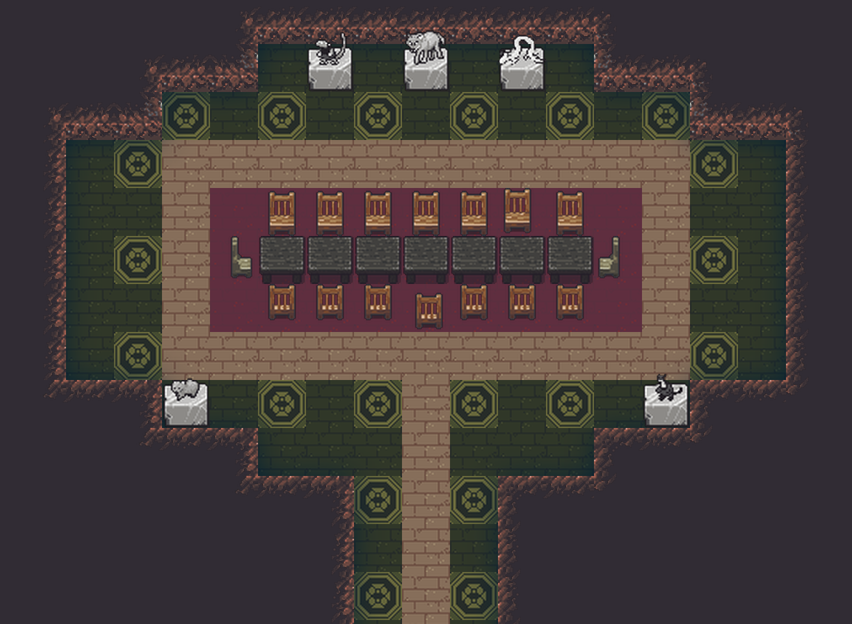
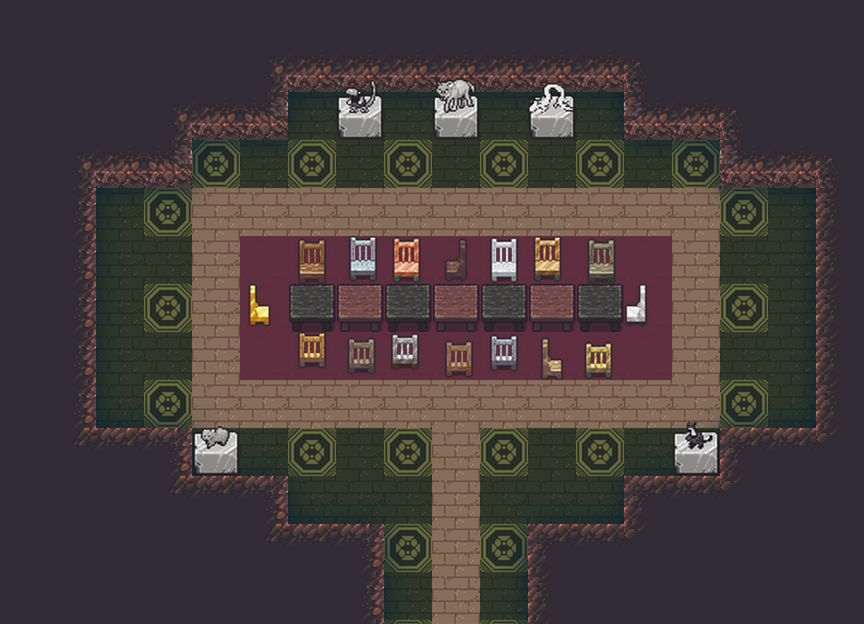
1.0: lay the repo out as the mod folder, drop package.sh, test on DFHack 53.17-r1
- info.txt, preview.png and scripts_modinstalled/ at the top level; art, test and docs
  are export-ignored so a git archive is exactly the Workshop upload
- renumber the first public release to 1.0 and remove the notes on the old plugin version
- hand install is now the mod folder in the game's mods folder
- README and Steam description: accuracy and wording fixes from review, corrected
  'overlay list' command, tested on Dwarf Fortress 53.17 with DFHack 53.17-r1
- new room, sheet and preview pictures

diff --git a/art/make_template.py b/art/make_template.py
@@ -5,7 +5,7 @@ reads: DFHack's Lua cannot read the pixels of a PNG.
 The PNG is 4 rows (wood, stone, metal, glass) of 4 facings (N, E, S, W), 32x32 each.  The Lua
 file returns 16 strings, row by row; each is one tile as 1024 pixels of 8 hex digits, RRGGBBAA.
 
-Usage: make_template.py            write scripts/internal/improved-chairs/template.lua
+Usage: make_template.py            write scripts_modinstalled/internal/improved-chairs/template.lua
        make_template.py --check    fail if that file does not match the PNG
 """
 import pathlib
@@ -15,7 +15,7 @@ from PIL import Image
 
 HERE = pathlib.Path(__file__).resolve().parent
 SRC = HERE / "sets" / "slat_template.png"
-OUT = HERE.parent / "scripts" / "internal" / "improved-chairs" / "template.lua"
+OUT = HERE.parent / "scripts_modinstalled" / "internal" / "improved-chairs" / "template.lua"
 TILE, ROWS, FACINGS = 32, 4, 4
 
 

diff --git a/README.md b/README.md
@@ -6,25 +6,26 @@ purely cosmetic: the game has no notion of chair facing, so nothing about the ch
 changes; the save only gains a small DFHack note of each turned or moved chair. Remove the mod
 and every chair looks exactly as it did before.
 
-![A dining room with chairs facing all four ways](docs/room.png)
+![A dining hall with chairs of many materials, turned and moved](docs/room.png)
 
 The chair is coloured from the material it is made of:
 
-![The chair in every material, front and side view](docs/materials.png)
+![The chair in some 250 materials, front and side view](docs/materials.png)
 
 ## Requirements
 
 DFHack, kept up to date (Steam does that for you). The mod is plain Lua run by DFHack: there is
 no compiled plugin, so it is not tied to one DFHack build. Tested on:
 
-- Dwarf Fortress 53.16 (Steam version, on Windows under Wine), with the graphical tiles
-- DFHack 53.16-r1.1
+- Dwarf Fortress 53.17 (the Steam Windows build, run under Wine on macOS), with the graphical
+  tiles
+- DFHack 53.17-r1 (and 53.16-r1.1 on Dwarf Fortress 53.16)
 
 Native Windows, Linux and Proton are untested.
 
 ## Using it
 
-![The chair's sheet with the turn and move controls](docs/sheet.png)
+![A selected chair with the turn button and move triangles after its name](docs/sheet.png)
 
 Click a chair. After its name in the view sheet there is a small circle with an arrow: click it
 to turn the chair. A chair starts out facing south, toward you; each click turns it a quarter:
@@ -35,14 +36,15 @@ pixel that way inside its tile, to pull it up to a table for example. The chair 
 or resized: a triangle goes dim once the picture has reached the edge of the tile. After a move
 a red `x` appears that puts the chair back where it rests. Turning the chair also puts it back.
 
-Where a chair rests depends on its facing: a chair facing north sits 6 pixels up, against the
-table behind it; one facing east or west sits 2 pixels up and 3 or 4 pixels toward its table;
-one facing south sits where the art draws it. Moves count from there.
+Where a chair rests depends on its facing: a chair facing north (seen from behind) sits 6 pixels
+up, against the table north of it; one facing east or west sits 2 pixels up and 3 or 4 pixels
+toward its table; one facing south sits where the art draws it. Moves count from there.
 
-The two chair icons in the sheet show the same chair. Facings and positions are saved with the
-fortress and come back when you load it.
+The sheet's two chair icons use the new art too: the one beside the title shows the chair as
+it is turned, the one in the item list shows it from the front. Facings and positions are saved
+with the fortress and come back when you load it.
 
-From the DFHack console or Lua:
+From Lua (in the DFHack console, type `lua` first to get a Lua prompt):
 
 ```lua
 local cf = reqscript('improved-chairs')
@@ -54,15 +56,15 @@ cf.get_room(facing, 0)              -- pixels of room toward 0 N, 1 E, 2 S, 3 W
 ```
 
 The mod is two DFHack overlay widgets. `improved-chairs.map` draws the chairs; `overlay disable
-improved-chairs.map` gives every chair the game's own picture back until you enable it again.
-`improved-chairs.sheet` is the control on the sheet; `overlay disable improved-chairs.sheet`
-hides it. Leave that one where it is: it is drawn over the sheet's title, so a moved widget no
-longer lines up with the sheet.
+improved-chairs.map` gives every chair on the map the game's own picture back until you enable
+it again. `improved-chairs.sheet` is the control on the sheet, and it also swaps the sheet's two
+icons; `overlay disable improved-chairs.sheet` hides both. Disable both widgets to switch the
+mod off without removing it. Do not move the sheet widget: it is drawn over the sheet's title,
+so a moved widget no longer lines up with the sheet.
 
 ## Installation
 
-There are two ways to install: subscribe on the Steam Workshop, or copy the files in by hand.
-Use one or the other, not both.
+Subscribe on the Steam Workshop, or copy the mod folder in by hand.
 
 ### From the Steam Workshop
 
@@ -72,8 +74,9 @@ Use one or the other, not both.
 Existing saves work. Do not add the mod to a world's mod list at world generation; it does
 nothing there.
 
-DFHack runs scripts straight from a Workshop mod, so there is no install step. The mod is three
-files, used where they are:
+DFHack runs scripts straight from a Workshop mod, so there is no install step. Besides
+`info.txt`, the preview picture, the licence and this readme, the mod is three files, used
+where they are:
 
 ```
 scripts_modinstalled/improved-chairs.lua                             the script
@@ -82,57 +85,27 @@ scripts_modinstalled/internal/improved-chairs/chair_controls.png     the control
 ```
 
 It writes no files of its own (DFHack notes the two widgets in `dfhack-config/overlay.json`),
-does not use the network, and stores each chair's facing and position in
-your save as a small DFHack note. To uninstall, unsubscribe. Also delete any copy of the mod
-left under `mods` and `data/installed_mods` in the game's data folder: the game keeps its own
-copy there.
+does not use the network, and stores each chair's facing and position in your save as a small
+DFHack note.
+
+To uninstall, unsubscribe. The game keeps its own copy of every subscribed mod, so also delete
+any `new_and_improved_chairs` folder left under `mods` and `data/installed_mods` in the game's
+data folder. On Windows that is `%APPDATA%\Bay 12 Games\Dwarf Fortress`, or the Dwarf Fortress
+folder itself on a portable install.
 
 All messages go to the DFHack console. If chairs do not change, look there for lines starting
-with `improved-chairs:`, and check that `overlay list improved-chairs` shows both widgets
+with `improved-chairs:`, and check that `overlay list chairs` shows both widgets
 enabled.
 
 ### By hand
 
-1. Download the release archive.
-2. Extract it into the Dwarf Fortress folder (the one that contains `dfhack-config`). It adds
-   three files and a licence text:
-
-   ```
-   dfhack-config/scripts/improved-chairs.lua
-   dfhack-config/scripts/internal/improved-chairs/template.lua
-   dfhack-config/scripts/internal/improved-chairs/chair_controls.png
-   ```
-
+1. Download the source archive of the latest release from the releases page.
+2. Extract it into the `mods` folder of the game's data folder (see above for where that is)
+   and name the folder `new_and_improved_chairs`, so that
+   `mods/new_and_improved_chairs/info.txt` exists.
 3. Start the game through DFHack. There is nothing to enable.
 
-To update, extract the newer archive over the old files. To uninstall, delete them.
-
-### Coming from version 1.0
-
-Version 1.0 drew the chairs with a compiled plugin that it copied into DFHack's own folder.
-Nothing uses it any more. With the game closed, delete these two files from the folder that
-contains DFHack's `hack` folder:
-
-```
-hack/plugins/improved-chairs.plug.dll
-hack/lua/plugins/improved-chairs.lua
-```
-
-If you installed 1.0 by hand from its archive, also delete these, or a Workshop install of 1.1
-loses to the old script and no chair changes:
-
-```
-hack/scripts/improved-chairs.lua
-hack/data/art/chair_slat_template.png
-hack/data/art/chair_controls.png
-```
-
-A world whose mod list includes version 1.0 keeps using the 1.0 script. The mod was never meant
-to be in a world's mod list; in such a world, keep the two plugin files or start a new world.
-
-Left in place the old plugin does nothing, but after
-a DFHack update DFHack reports at every start that it was not built for that version. Facings
-and positions saved with 1.0 are read as they are.
+To update, replace the folder. To uninstall, delete it.
 
 ## How it works
 
@@ -140,10 +113,10 @@ Every frame the game draws the map into layers of texture numbers, one cell per 
 chair's picture goes in the building layer. DFHack lets an overlay widget run after the game
 has filled those layers and before they reach the screen. The `improved-chairs.map` widget
 goes through the built chairs, and for each one in view puts the texture for its material,
-facing and position in the chair's cell. Chairs up to eight levels below, seen through open space, are in
-the game's lower layers and get the same treatment. Creatures and items are separate layers that the game
-draws over the building layer as before, so a dwarf on the chair's tile is drawn over the chair
-(verified, as is scrolling).
+facing and position in the chair's cell. Chairs up to eight levels below, seen through open
+space, are in the game's lower layers and get the same treatment. Creatures and items are
+separate layers that the game draws over the building layer as before, so a dwarf on the
+chair's tile is drawn over the chair (verified, as is scrolling).
 
 Only a cell the game has put a building picture in is changed, so a chair the game does not
 show stays unshown. A chair that is still being built is drawn as the game draws it, and so is
@@ -170,8 +143,8 @@ material gets its own chair and there is no table of colours to maintain. A nudg
 painted the same way from the template tile moved by its offset.
 
 DFHack's Lua cannot read the pixels of a PNG, so the script reads the template from
-`scripts/internal/improved-chairs/template.lua`, which `art/make_template.py` writes from the
-PNG (it needs Python with Pillow). To try a changed template in a running game, run
+`scripts_modinstalled/internal/improved-chairs/template.lua`, which `art/make_template.py`
+writes from the PNG (it needs Python with Pillow). To try a changed template in a running game, run
 `art/make_template.py`, copy `template.lua` over the installed one and run
 `improved-chairs reload`. `improved-chairs status` prints how many chair tiles have been
 painted and drawn.
@@ -184,23 +157,27 @@ lua test/run_tests.lua      # any Lua 5.3 or later; DFHack and the game are stub
 
 The tests cover the painting (tones, see-through pixels, moved tiles), the room a chair has in
 its tile, the saved data (reading, the conversion of old saves, dropping chairs that are gone)
-and which map cell a chair is drawn in. `package.sh` runs them.
+and which map cell a chair is drawn in.
 
-## Releasing
+## Layout and releasing
 
-1. In `steam/info.txt`, raise `NUMERIC_VERSION` (keep it three digits: DFHack compares it as
-   text and uses the highest copy it finds) and `DISPLAYED_VERSION`, and write a new
-   `STEAM_CHANGELOG`.
-2. `./package.sh <version>` writes `dist/improved-chairs-<version>.zip` (the hand install) and
-   the Workshop mod folder `dist/workshop/new_and_improved_chairs`. It refuses to run when
-   `template.lua` does not match the PNG.
-3. Copy `dist/workshop/new_and_improved_chairs` to the game's `mods/mod_upload/` and upload from the Mods
-   screen.
+The repository is the mod folder: `info.txt`, `preview.png` and `scripts_modinstalled/` are what
+the game and DFHack read. `art/`, `test/` and `docs/` are left out of archives made with
+`git archive` (see `.gitattributes`), so an exported copy is exactly what gets uploaded.
+
+1. Run the checks: `lua test/run_tests.lua`, `python3 art/make_template.py --check` (the Lua
+   template matches the PNG) and
+   `cmp art/controls.png scripts_modinstalled/internal/improved-chairs/chair_controls.png`.
+2. In `info.txt`, raise `NUMERIC_VERSION` (keep it three digits: DFHack compares it as text and
+   uses the highest copy it finds) and `DISPLAYED_VERSION`, and write a new `STEAM_CHANGELOG`.
+   Commit.
+3. Export the mod into the game's upload folder and upload from the Mods screen:
+   `git archive --prefix=new_and_improved_chairs/ HEAD | tar -x -C "<game data>/mods/mod_upload"`
 4. After the first upload the game adds a `STEAM_FILE_ID` line to the uploaded `info.txt`. Copy
-   that line into `steam/info.txt`; without it the next upload creates a second Workshop item.
-5. `STEAM_DESCRIPTION` replaces the Workshop page's description on every upload. The full text
-   is `steam/description.txt`; paste it on the page, then remove `STEAM_DESCRIPTION` from
-   `steam/info.txt` to keep it.
+   that line into `info.txt` here; without it the next upload creates a second Workshop item.
+5. The Workshop page's description is `steam_description.txt`; paste it on the page after
+   changing it. `info.txt` has no `STEAM_DESCRIPTION` line on purpose: with one, every upload
+   would replace the page's description with that line.
 
 ## Known limitations
 
@@ -216,13 +193,13 @@ and which map cell a chair is drawn in. `package.sh` runs them.
 - The script reads the game's map layers by the names DFHack gives them. A game update that
   changes how the map is drawn can stop the chairs from changing until the script is updated;
   the game's own chairs show in the meantime.
-- Semi-transparent pixels (the shadow under the seat) can differ from version 1.0 by one step
-  of 255 in a colour channel.
-- With a DFHack older than 53.16-r2, chairs turned or nudged in a reclaimed fortress before its
-  first save reach the save file only with the second save. Current DFHack does not have this gap.
-- Fortress mode only. In adventure mode chairs are drawn by the game; visiting your old fort as
-  an adventurer leaves the stored facings untouched but does not draw them.
+- On DFHack 53.16-r1.1 and older, chairs turned or nudged in a reclaimed fortress before its
+  first save reach the save file only with the second save: save once more before quitting.
+  DFHack 53.16-r2 and later should not have this gap (reclaiming was not tested on them).
+- Fortress mode with the graphical tiles only; the ASCII (text) mode is not supported. In
+  adventure mode chairs are drawn by the game; visiting your old fort as an adventurer leaves
+  the stored facings untouched but does not draw them.
 
-## License
+## Licence
 
-MIT.
+MIT; see [LICENSE](LICENSE).
